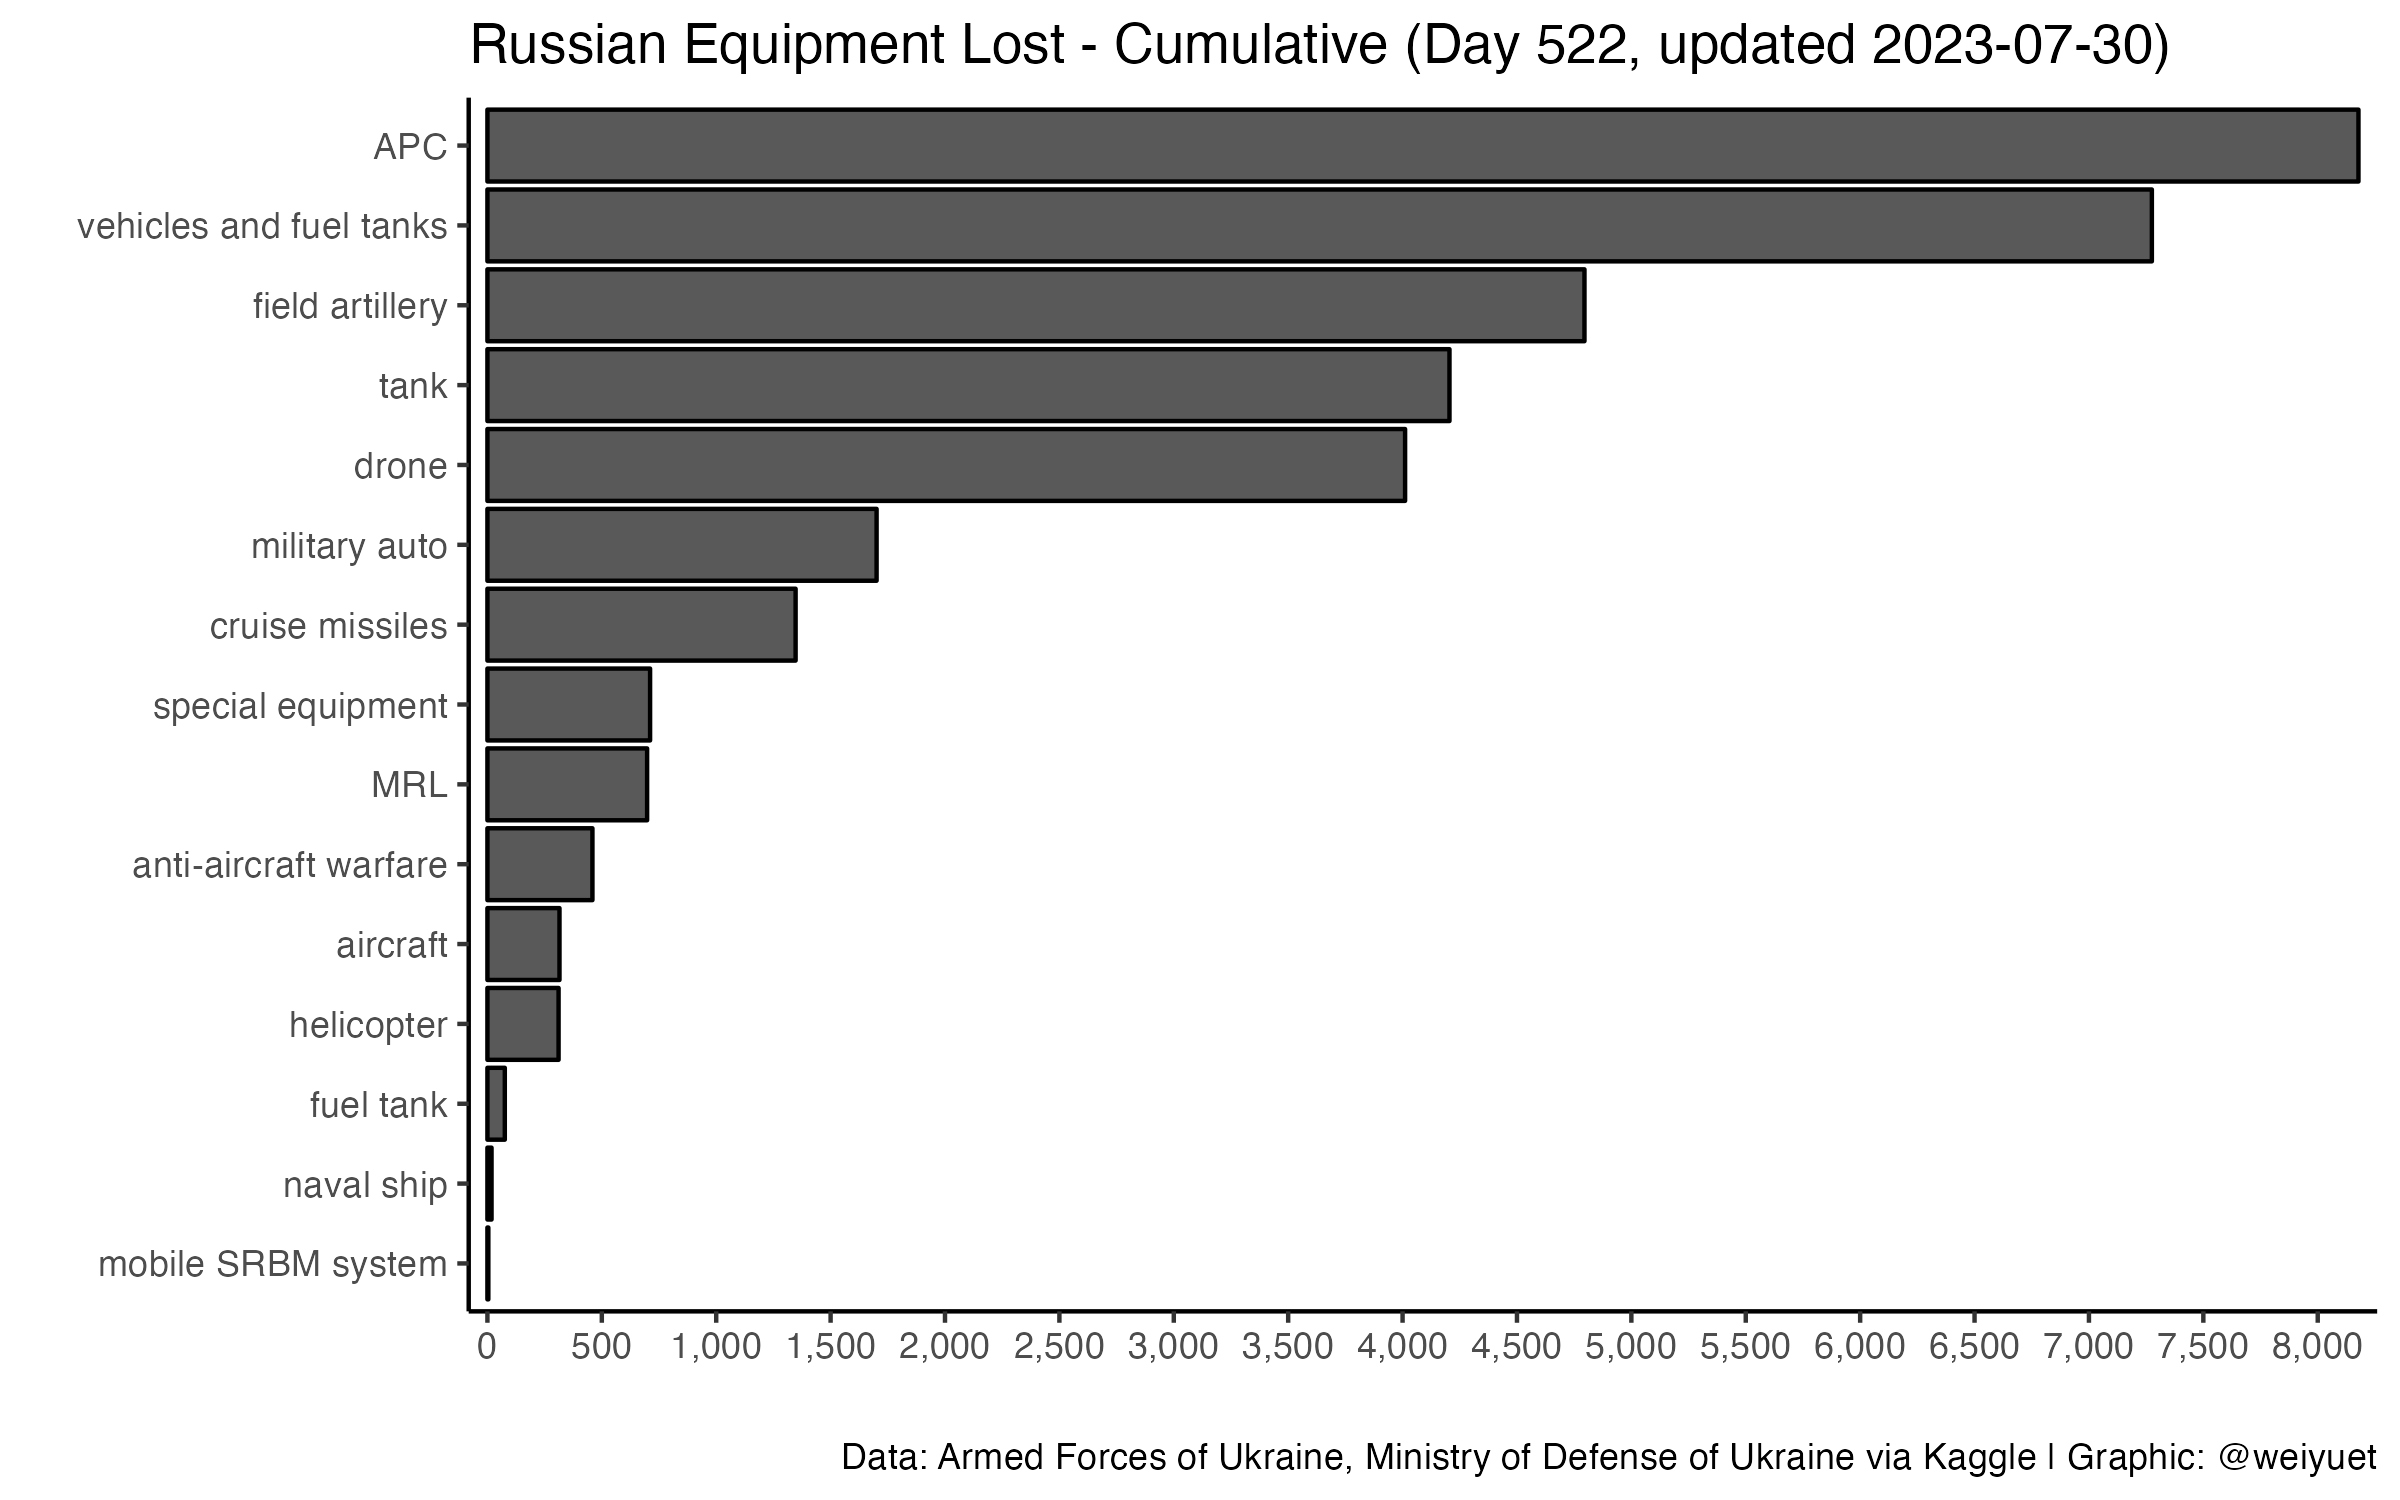
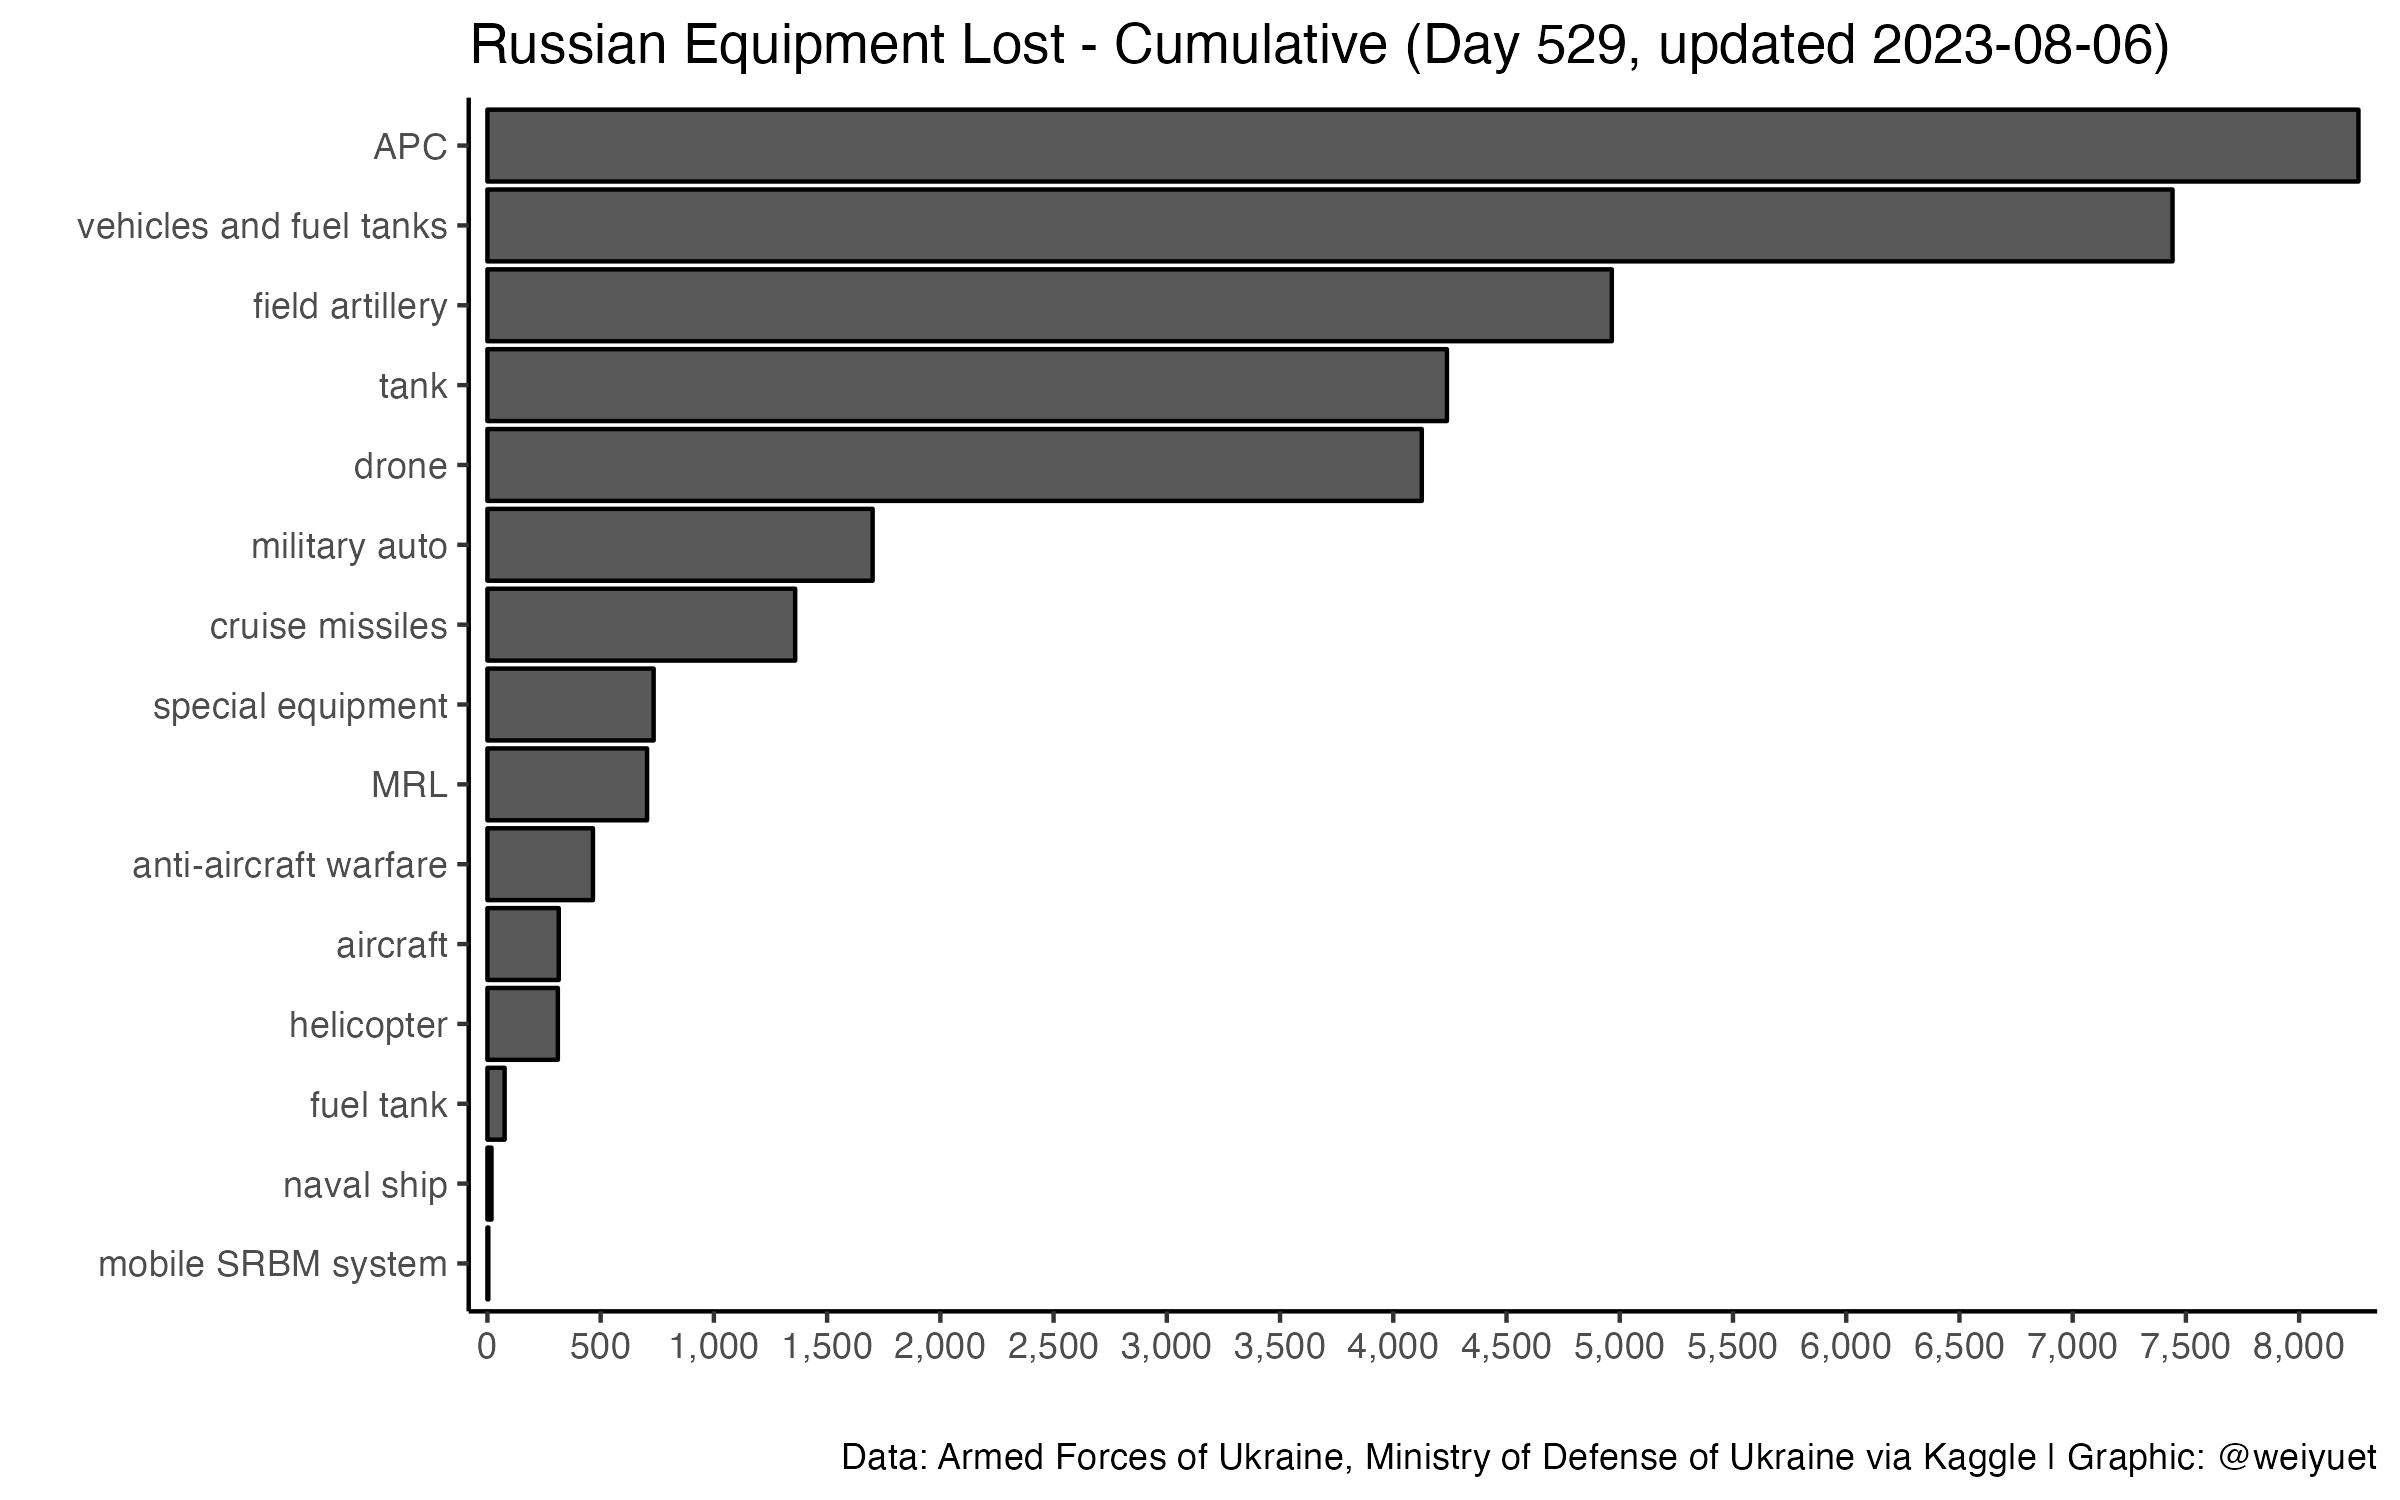
Updated 7 August

diff --git a/README.md b/README.md
@@ -6,7 +6,7 @@ Wong Wei Yuet 2022-05-26
 
   - War casualty data updated daily from [`Petro Ivanyuk's Kaggle`](https://www.kaggle.com/datasets/piterfm/2022-ukraine-russian-war). All data is official and put together by `Petro`
 
-Updated: 2023-07-30
+Updated: 2023-08-07
 
 ## Summary of Conflict
 
